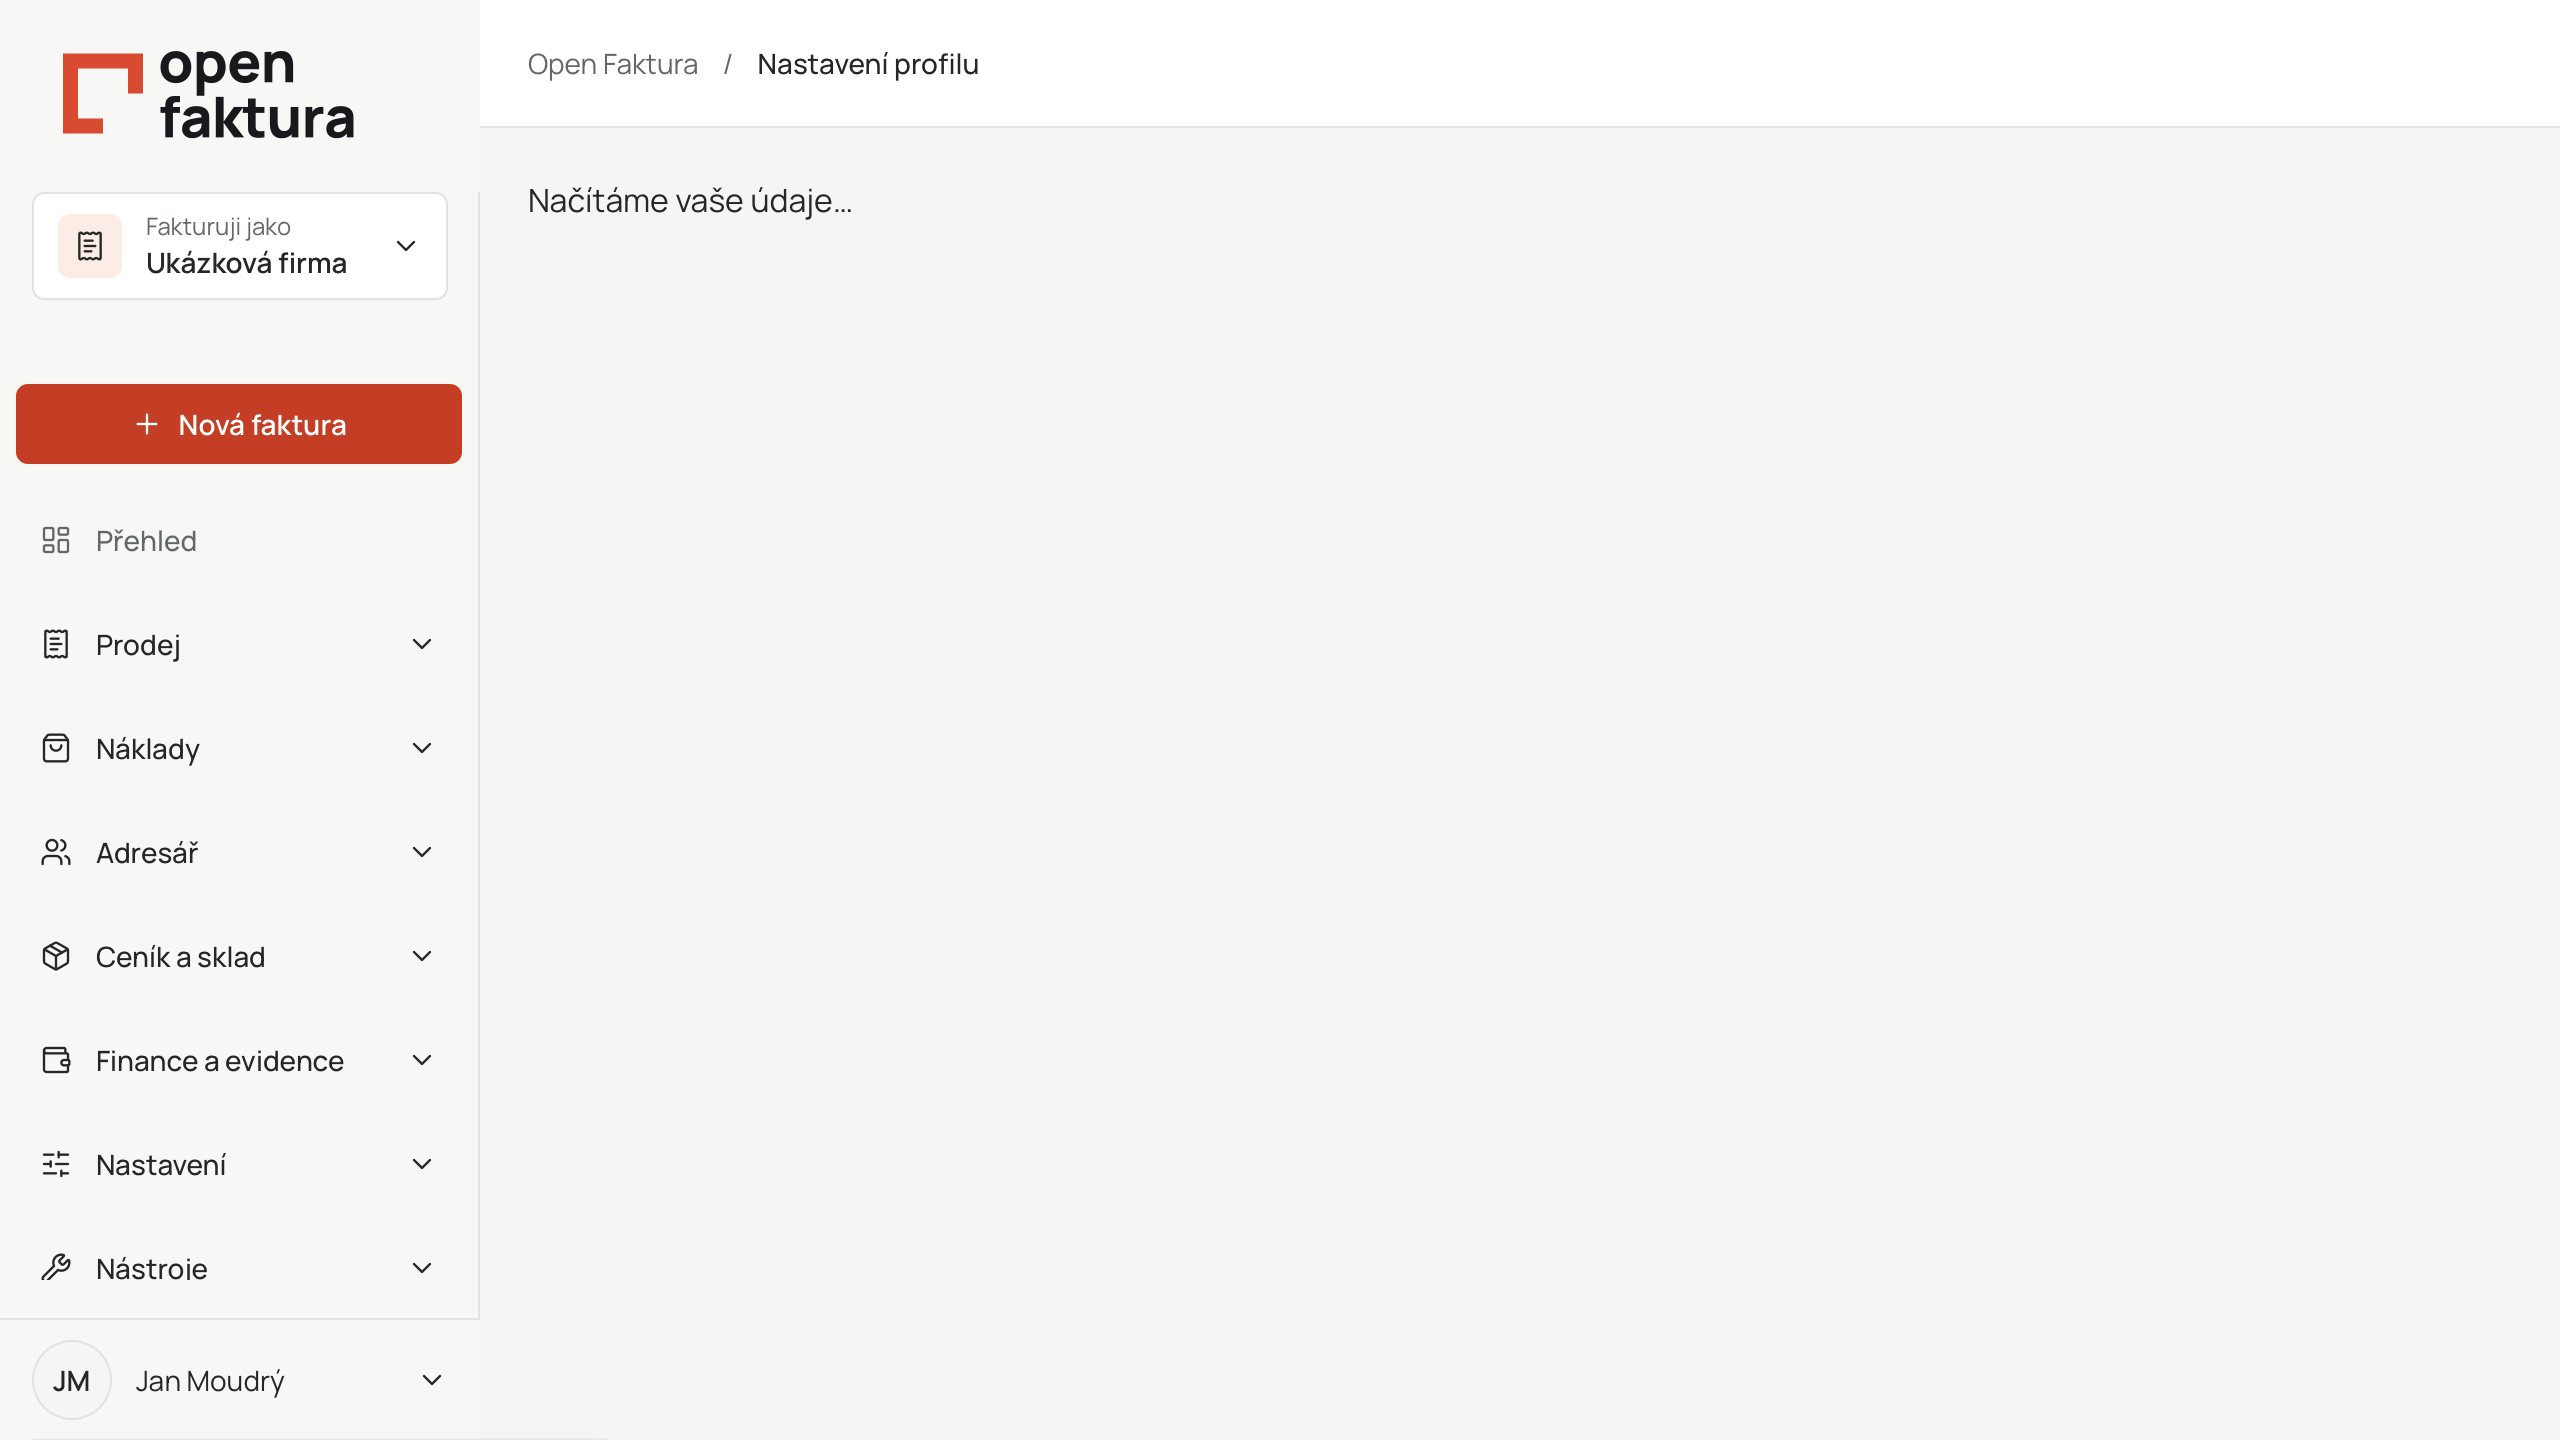
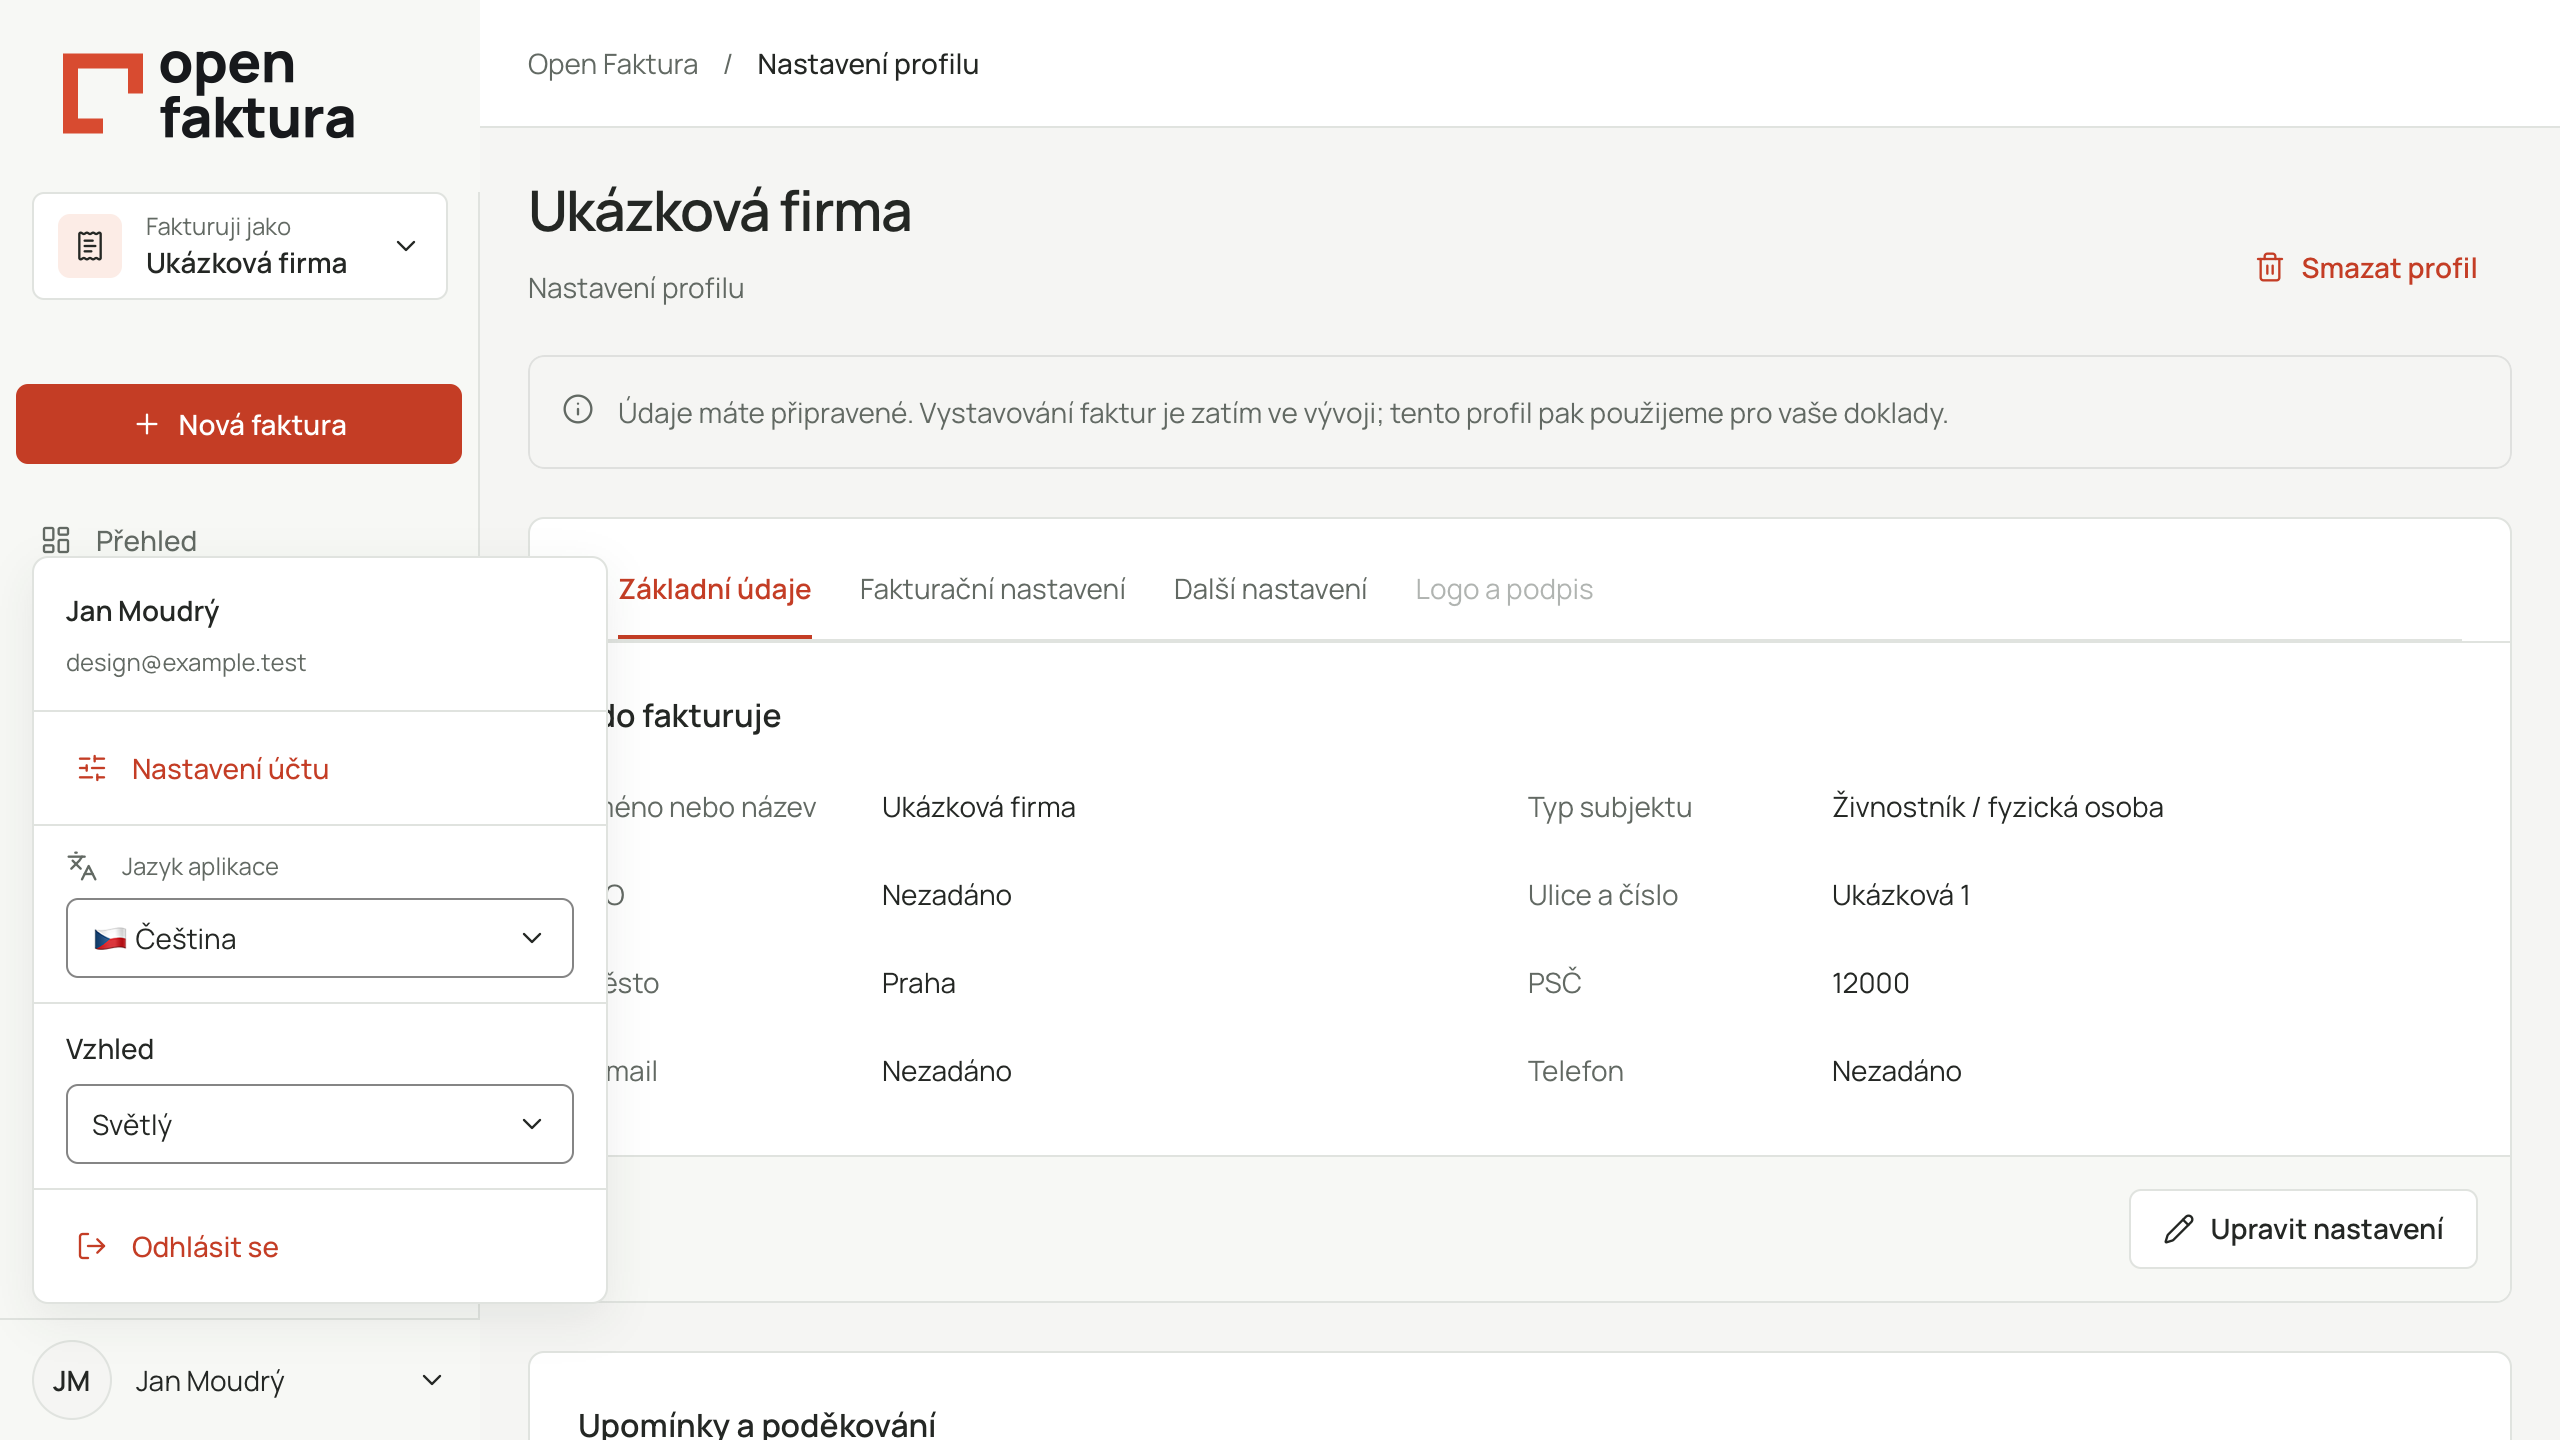
fix(web): prevent account menu placement utilities overriding desktop anchor

diff --git a/tests/e2e/redesign.spec.ts b/tests/e2e/redesign.spec.ts
@@ -152,6 +152,11 @@ test("avatar opens from the workspace and after scrolling at desktop breakpoints
       await page.mouse.click(box!.x + box!.width / 2, box!.y + box!.height / 2);
       await expect(avatar).toHaveAttribute("aria-expanded", "true");
       await expect(page.locator(".account-popover")).toBeVisible();
+      await expect(page.locator(".account-popover")).toHaveCSS("opacity", "1");
+      const menuBox = await page.locator(".account-popover").boundingBox();
+      expect(menuBox!.height).toBeGreaterThan(200);
+      expect(menuBox!.y).toBeGreaterThanOrEqual(0);
+      expect(menuBox!.y + menuBox!.height).toBeLessThanOrEqual(720);
       if (
         width === 1280 &&
         scroll === 0 &&
@@ -159,6 +164,7 @@ test("avatar opens from the workspace and after scrolling at desktop breakpoints
       ) {
         await page.screenshot({
           path: "docs/design/redesign-2026-10-17/account-menu.png",
+          animations: "disabled",
         });
       }
       await page.keyboard.press("Escape");

diff --git a/apps/web/src/components/molecules/AccountMenu.tsx b/apps/web/src/components/molecules/AccountMenu.tsx
@@ -95,7 +95,7 @@ export function AccountMenu({
           id={id}
           role="region"
           aria-label={t("accountMenu")}
-          className="account-popover absolute right-0 top-full z-50 mt-inline w-72 max-w-[calc(100vw-2rem)] overflow-hidden rounded-popover border border-border bg-surface shadow-paper"
+          className="account-popover w-72 max-w-[calc(100vw-2rem)] rounded-popover border border-border bg-surface shadow-paper"
         >
           <div className="border-b border-border p-field">
             <p className="text-sm font-semibold">{name || t("accountTitle")}</p>

diff --git a/apps/web/src/styles/app.css b/apps/web/src/styles/app.css
@@ -88,6 +88,9 @@
   .account-language-option[aria-pressed="true"] {
     @apply bg-primary-soft text-foreground;
   }
+  .account-popover {
+    @apply absolute right-0 top-full z-50 mt-inline overflow-hidden;
+  }
   .account-popover :is(button, a):focus-visible {
     outline-offset: -2px;
   }

diff --git a/docs/design/redesign-2026-10-17/README.md b/docs/design/redesign-2026-10-17/README.md
@@ -74,10 +74,13 @@ UI je připravené v oddělené pracovní kopii; pracovní rozpracování jinéh
 
 ## Menu uživatelského účtu
 
-Po hlášení neotevření avatara je účet samostatným potomkem kořene workspace,
-nikoli pevným prvkem uvnitř přichycené hlavičky. Kliknutí explicitně přesune
-focus na tlačítko i ve WebKitu. Původní hlášení se v izolovaných testech
-nepodařilo reprodukovat; úprava odstraňuje závislost menu na chování hlavičky.
+Příčinou neviditelného menu byl konflikt utility `top-full` na prvku s responzivním
+`top-auto` v komponentové vrstvě CSS: pravidlo utility mělo přednost a otevřené menu
+zůstávalo pod spodním okrajem. Pozice i overflow nyní žijí ve stejné komponentové
+vrstvě; na desktopu se menu otevírá nad avatarem, na mobilu pod ním.
+Účet je samostatným potomkem kořene workspace, nikoli pevným prvkem uvnitř
+přichycené hlavičky. Kliknutí explicitně přesune focus na tlačítko i ve WebKitu.
 Regrese ověřuje klik přímo na kolečko iniciál, šířky 1024/1280/1600 px,
-posun stránky, Escape a všechny dosavadní scénáře účtu v Chromiu a WebKitu.
+posun stránky, Escape, skutečnou výšku menu a oba svislé okraje viewportu,
+plus dosavadní scénáře účtu v Chromiu a WebKitu.
 WebKit lze přidat pomocí `E2E_WEBKIT=1` a `--project=webkit`.
